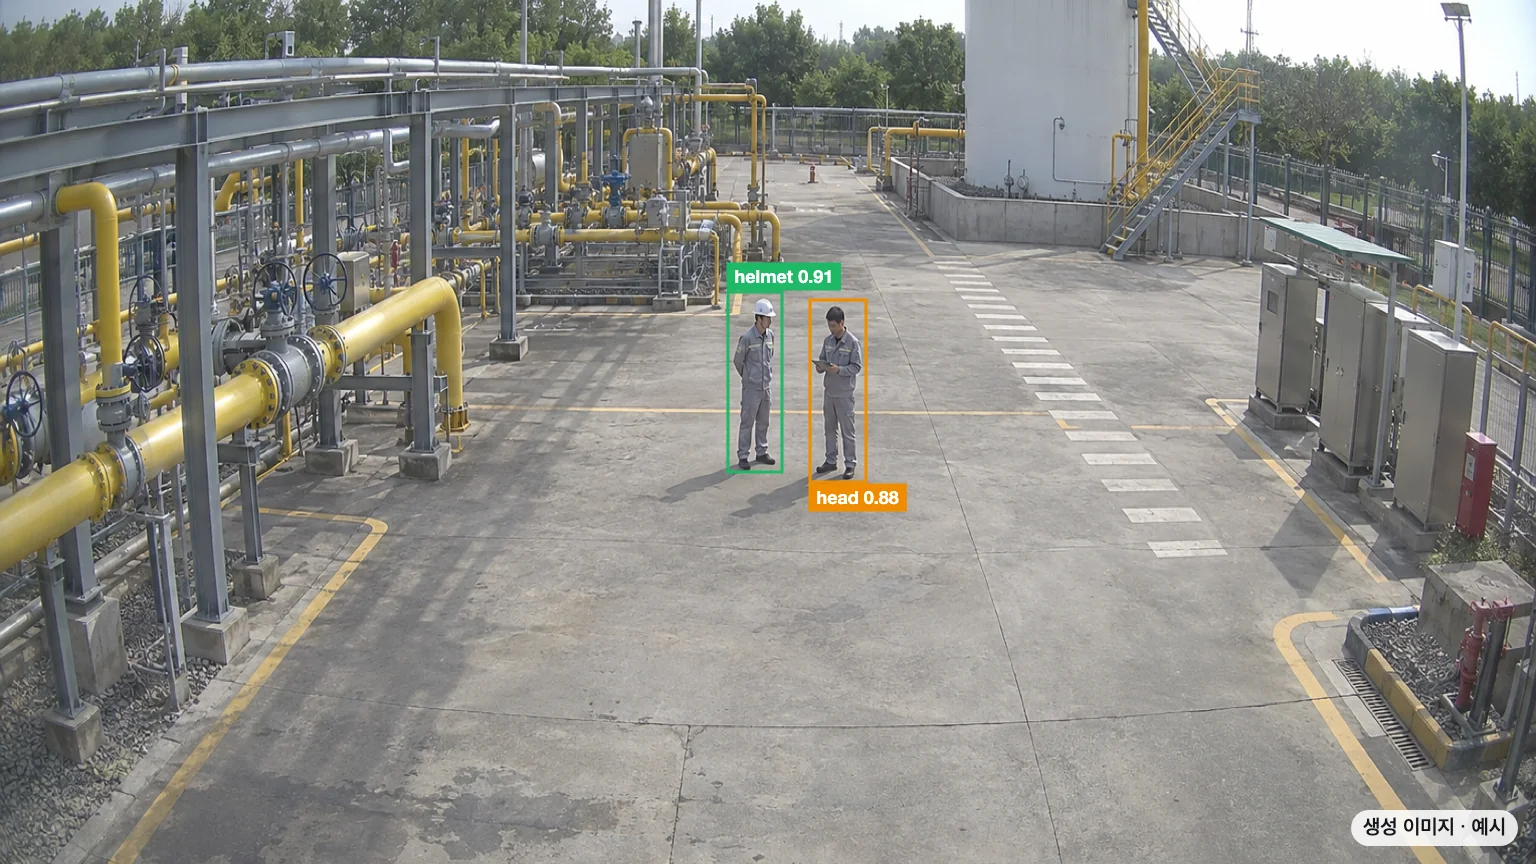
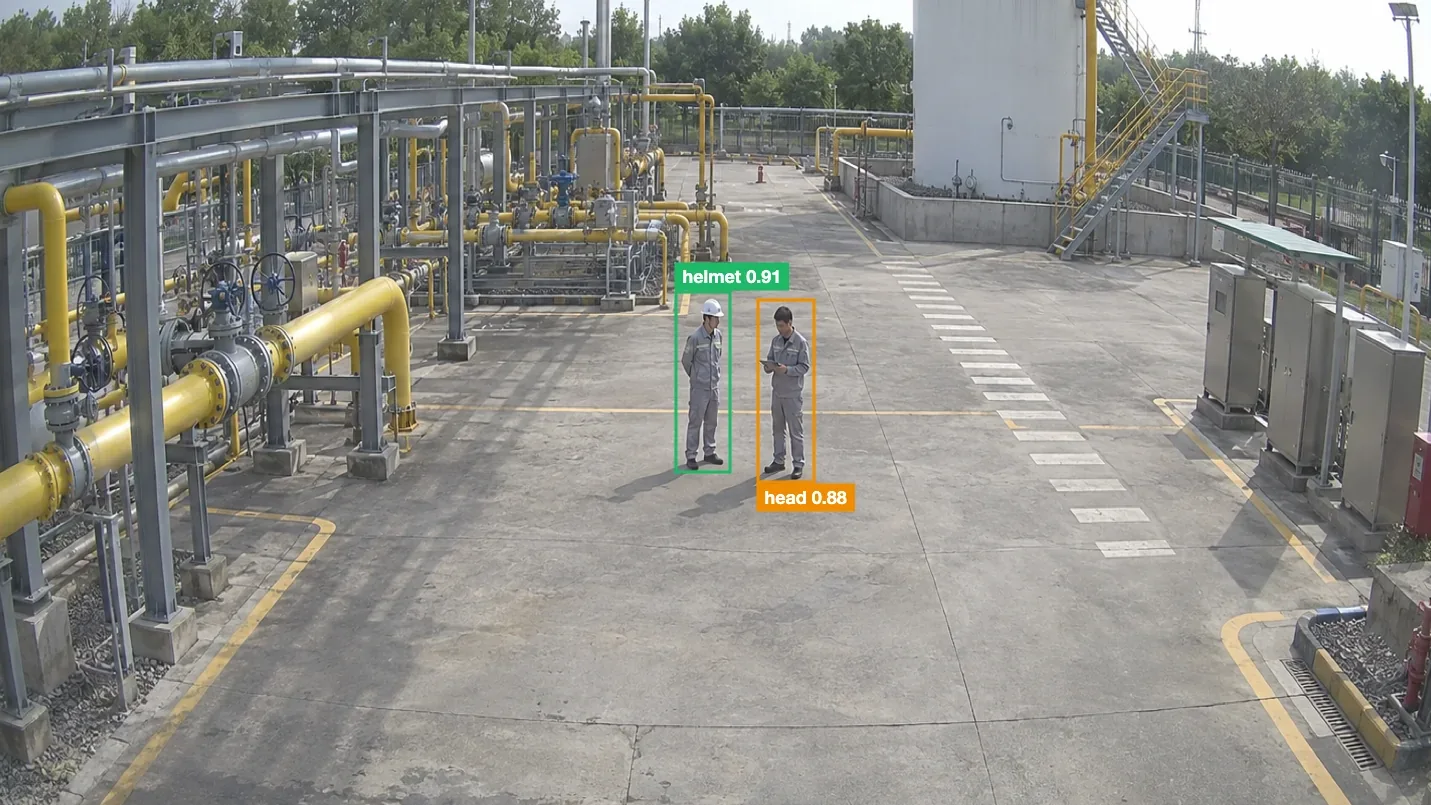
자료 그림: 「생성 이미지」 표시를 모두 빼고 설명을 한 줄로
그림 아홉 장 귀퉁이에 박혀 있던 「생성 이미지 · 예시」를 지웠다. 이번에 만든 세 장(아파트·주차폴·사선)은 덧그림 스크립트로 딱지 없이 다시 그렸고, 나머지 다섯 장은 딱지 자리만 Codex 원본 픽셀로 되살렸다. 원본이 다른 판인 안전모 그림은 아래 띠를 잘라 1431×805(16:9)로 맞췄다.
설명 옆 「생성 이미지」 딱지(media.generated)도 모두 끄고, 설명은 점선·색 풀이 없이 어떤 그림인지 한 줄로 줄였다.

diff --git a/work/parking-ai/index.html b/work/parking-ai/index.html
@@ -100,10 +100,10 @@
     <section class="sec" aria-labelledby="h-media">
       <h2 id="h-media">자료</h2>
       <ul class="shots shots--wide shots--work">
-        <li><img src="/assets/img/work/parking-ai/parking-occupancy.webp" width="1600" height="900" alt="미니어처 디오라마로 만든 빽빽한 야외 주차장을 높이 단 CCTV 광각 렌즈로 내려다본 그림. 주차면을 채운 차들 사이로 통로에 승합차·SUV·트럭이 서 있어 차들이 서로 겹치고 가린다. 차마다 바닥에 닿는 하단면이 노란 사각형으로 그려져 있고, 보이는 변은 실선, 차체나 다른 차에 가린 변은 점선이다. 앞줄 주차면은 차가 선 칸이 빨강, 빈 칸 하나가 초록이며, 빈 칸 일부는 통로의 SUV에 가려 있다. 실제 장소가 아니라 만든 이미지다." loading="lazy"><p class="shots__cap">야외 주차장 CCTV 시점, 차량별 하단면(가려진 변은 점선)과 주차면 <span class="nobr">점유(빨강)·빈</span> 칸(초록)<span class="shots__note">생성 이미지</span></p></li>
-<li><img src="/assets/img/work/parking-ai/parking-apart.webp" width="1600" height="900" alt="미니어처 디오라마로 만든 아파트 지하주차장을 천장에 단 어안 CCTV로 본 그림. 화면 가장자리가 둥글게 휘고, 넓은 통로 건너편 줄에 앞면이 보이게 후진 주차한 차들이 기둥 사이로 빽빽하게 서 있다. 차마다 바닥에 닿는 하단면이 노란 사각형으로 그려져 있고, 보이는 앞변은 실선, 차체나 기둥에 가린 변은 점선이다. 통로를 지나는 파란 차가 뒤에 선 두 대를 가려 그 두 대의 하단면은 모두 점선이다. 찬 칸 앞 바닥은 빨강, 가운데 빈 칸 하나는 초록이다. 실제 장소가 아니라 만든 이미지다." loading="lazy"><p class="shots__cap">아파트 지하주차장 어안 CCTV 시점, 통로를 지나는 차와 기둥에 가린 하단면은 점선<span class="shots__note">생성 이미지</span></p></li>
-<li><img src="/assets/img/work/parking-ai/parking-pole.webp" width="1600" height="900" alt="미니어처 디오라마로 만든 상가 거리의 길가 평행주차 칸을 비스듬히 내려다본 그림. 보도 연석 위에 흰 사각 함체의 주차폴이 서 있고, 앞면에 작은 화면·초록 버튼·자홍 상태등·초록 LED 판이, 양옆에 카메라 함이 달려 있다. 폴 바로 옆 칸에 빨간 승용차가 연석과 나란히 서 있고, 차 바닥에 닿는 하단면이 노란 사각형으로 그려져 있다. 보이는 앞변과 도로 쪽 변은 실선, 가린 뒷변과 연석 쪽 변은 점선이다. 차가 선 칸은 빨강, 그 옆 빈 칸은 초록이다. 실제 장소가 아니라 만든 이미지다." loading="lazy"><p class="shots__cap">길가 주차폴 시점, 폴 옆에 평행주차한 차량 하단면과 찬 <span class="nobr">칸(빨강)·옆</span> 빈 칸(초록)<span class="shots__note">생성 이미지</span></p></li>
-<li><img src="/assets/img/work/parking-ai/parking-diagonal.webp" width="1600" height="900" alt="미니어처 디오라마로 만든 상가 거리의 사선 주차 칸 여섯 개를 비스듬히 내려다본 그림. 칸마다 앞쪽 보도 가장자리에 흰 사각 함체의 주차폴이 하나씩 서 있고, 차들은 폴을 향해 앞머리부터 비스듬히 들어가 있다. 차마다 바닥에 닿는 하단면이 노란 사각형으로 그려져 있고, 보이는 뒷변과 오른쪽 변은 실선, 차체에 가린 앞변과 왼쪽 변은 점선이다. 차가 선 다섯 칸은 빨강, 가운데 빈 칸 하나는 초록이다. 실제 장소가 아니라 만든 이미지다." loading="lazy"><p class="shots__cap">사선 주차장 주차폴 배치안, 칸마다 차량 앞쪽에 폴 하나, 찬 <span class="nobr">칸(빨강)·빈</span> 칸(초록)<span class="shots__note">생성 이미지</span></p></li>
+        <li><img src="/assets/img/work/parking-ai/parking-occupancy.webp" width="1600" height="900" alt="미니어처 디오라마로 만든 빽빽한 야외 주차장을 높이 단 CCTV 광각 렌즈로 내려다본 그림. 주차면을 채운 차들 사이로 통로에 승합차·SUV·트럭이 서 있어 차들이 서로 겹치고 가린다. 차마다 바닥에 닿는 하단면이 노란 사각형으로 그려져 있고, 보이는 변은 실선, 차체나 다른 차에 가린 변은 점선이다. 앞줄 주차면은 차가 선 칸이 빨강, 빈 칸 하나가 초록이며, 빈 칸 일부는 통로의 SUV에 가려 있다. 실제 장소가 아니라 만든 이미지다." loading="lazy"><p class="shots__cap">야외 주차장 CCTV 시점</p></li>
+<li><img src="/assets/img/work/parking-ai/parking-apart.webp" width="1600" height="900" alt="미니어처 디오라마로 만든 아파트 지하주차장을 천장에 단 어안 CCTV로 본 그림. 화면 가장자리가 둥글게 휘고, 넓은 통로 건너편 줄에 앞면이 보이게 후진 주차한 차들이 기둥 사이로 빽빽하게 서 있다. 차마다 바닥에 닿는 하단면이 노란 사각형으로 그려져 있고, 보이는 앞변은 실선, 차체나 기둥에 가린 변은 점선이다. 통로를 지나는 파란 차가 뒤에 선 두 대를 가려 그 두 대의 하단면은 모두 점선이다. 찬 칸 앞 바닥은 빨강, 가운데 빈 칸 하나는 초록이다. 실제 장소가 아니라 만든 이미지다." loading="lazy"><p class="shots__cap">아파트 지하주차장 어안 CCTV 시점</p></li>
+<li><img src="/assets/img/work/parking-ai/parking-pole.webp" width="1600" height="900" alt="미니어처 디오라마로 만든 상가 거리의 길가 평행주차 칸을 비스듬히 내려다본 그림. 보도 연석 위에 흰 사각 함체의 주차폴이 서 있고, 앞면에 작은 화면·초록 버튼·자홍 상태등·초록 LED 판이, 양옆에 카메라 함이 달려 있다. 폴 바로 옆 칸에 빨간 승용차가 연석과 나란히 서 있고, 차 바닥에 닿는 하단면이 노란 사각형으로 그려져 있다. 보이는 앞변과 도로 쪽 변은 실선, 가린 뒷변과 연석 쪽 변은 점선이다. 차가 선 칸은 빨강, 그 옆 빈 칸은 초록이다. 실제 장소가 아니라 만든 이미지다." loading="lazy"><p class="shots__cap">길가 평행주차 칸의 주차폴 시점</p></li>
+<li><img src="/assets/img/work/parking-ai/parking-diagonal.webp" width="1600" height="900" alt="미니어처 디오라마로 만든 상가 거리의 사선 주차 칸 여섯 개를 비스듬히 내려다본 그림. 칸마다 앞쪽 보도 가장자리에 흰 사각 함체의 주차폴이 하나씩 서 있고, 차들은 폴을 향해 앞머리부터 비스듬히 들어가 있다. 차마다 바닥에 닿는 하단면이 노란 사각형으로 그려져 있고, 보이는 뒷변과 오른쪽 변은 실선, 차체에 가린 앞변과 왼쪽 변은 점선이다. 차가 선 다섯 칸은 빨강, 가운데 빈 칸 하나는 초록이다. 실제 장소가 아니라 만든 이미지다." loading="lazy"><p class="shots__cap">사선 주차장 주차폴 배치안</p></li>
       </ul>
     </section>
     <section class="sec" aria-labelledby="h-others">

diff --git a/work/labeling-tool/index.html b/work/labeling-tool/index.html
@@ -93,8 +93,8 @@
     <section class="sec" aria-labelledby="h-media">
       <h2 id="h-media">자료</h2>
       <ul class="shots shots--wide shots--work">
-        <li><img src="/assets/img/work/labeling-tool/labeling-calib.webp" width="1600" height="900" alt="미니어처 디오라마 주차장을 높이 단 CCTV 광각 렌즈로 본 그림 위에 보정한 카메라로 그린 옅은 바닥 격자, 주차면 앞뒤를 따라 그은 가로선(초록), 주차면 사이 세로선(주황), 2.5 m 축척이 있고, 세로선을 렌즈 휨대로 이어 그린 분홍 점선 셋이 위쪽 나무 줄 근처의 소실점 한 곳으로 모인다. 왼쪽 아래에 보정한 카메라 값(초점거리·카메라 높이·좌우 기울기)이 있다. 실제 장소가 아니라 만든 이미지다." loading="lazy"><p class="shots__cap">바닥 주차선과 소실점 기반 <span class="nobr">초점거리·카메라</span> <span class="nobr">높이·기울기</span> 보정<span class="shots__note">생성 이미지</span></p></li>
-<li><img src="/assets/img/work/labeling-tool/labeling-ground.webp" width="1600" height="900" alt="같은 미니어처 주차장 바닥에 보정한 카메라로 2.5 m 간격 격자를 올린 그림. 격자가 광각 렌즈를 따라 휘며 바닥에 붙어 보이고, 차마다 바닥에 닿는 하단면 라벨이 초록 사각형으로 그려져 있다. 실제 장소가 아니라 만든 이미지다." loading="lazy"><p class="shots__cap">보정값으로 바닥에 올린 2.5 m 격자와 차량 하단면 라벨(초록)<span class="shots__note">생성 이미지</span></p></li>
+        <li><img src="/assets/img/work/labeling-tool/labeling-calib.webp" width="1600" height="900" alt="미니어처 디오라마 주차장을 높이 단 CCTV 광각 렌즈로 본 그림 위에 보정한 카메라로 그린 옅은 바닥 격자, 주차면 앞뒤를 따라 그은 가로선(초록), 주차면 사이 세로선(주황), 2.5 m 축척이 있고, 세로선을 렌즈 휨대로 이어 그린 분홍 점선 셋이 위쪽 나무 줄 근처의 소실점 한 곳으로 모인다. 왼쪽 아래에 보정한 카메라 값(초점거리·카메라 높이·좌우 기울기)이 있다. 실제 장소가 아니라 만든 이미지다." loading="lazy"><p class="shots__cap">주차선과 소실점을 이용한 카메라 보정 화면</p></li>
+<li><img src="/assets/img/work/labeling-tool/labeling-ground.webp" width="1600" height="900" alt="같은 미니어처 주차장 바닥에 보정한 카메라로 2.5 m 간격 격자를 올린 그림. 격자가 광각 렌즈를 따라 휘며 바닥에 붙어 보이고, 차마다 바닥에 닿는 하단면 라벨이 초록 사각형으로 그려져 있다. 실제 장소가 아니라 만든 이미지다." loading="lazy"><p class="shots__cap">보정한 바닥 위 2.5 m 격자와 하단면 라벨</p></li>
       </ul>
     </section>
     <section class="sec" aria-labelledby="h-others">

diff --git a/work/safety-vision/index.html b/work/safety-vision/index.html
@@ -95,8 +95,8 @@
     <section class="sec" aria-labelledby="h-media">
       <h2 id="h-media">자료</h2>
       <ul class="shots shots--wide shots--work">
-        <li><img src="/assets/img/work/safety-vision/safety-helmet.webp" width="1536" height="864" alt="산업 시설 마당을 높은 곳에서 내려다본 CCTV 화면 예시. 안전모를 쓴 작업자는 초록 helmet 상자, 쓰지 않은 작업자는 주황 head 상자로 표시된다. 실제 현장이 아니라 만든 이미지다." loading="lazy"><p class="shots__cap">안전모 <span class="nobr">착용(helmet)·미착용(head)</span> 감지<span class="shots__note">생성 이미지</span></p></li>
-<li><img src="/assets/img/work/safety-vision/safety-intrude.webp" width="1536" height="864" alt="저장 탱크 둘레의 출입 금지 구역이 청록 ROI로 칠해진 CCTV 화면 예시. 구역 안의 작업자는 빨간 trespass 상자, 바깥을 걷는 작업자는 person 상자로 표시된다. 실제 현장이 아니라 만든 이미지다." loading="lazy"><p class="shots__cap">출입 금지 구역(ROI) 침입 감지<span class="shots__note">생성 이미지</span></p></li>
+        <li><img src="/assets/img/work/safety-vision/safety-helmet.webp" width="1431" height="805" alt="산업 시설 마당을 높은 곳에서 내려다본 CCTV 화면 예시. 안전모를 쓴 작업자는 초록 helmet 상자, 쓰지 않은 작업자는 주황 head 상자로 표시된다. 실제 현장이 아니라 만든 이미지다." loading="lazy"><p class="shots__cap">안전모 <span class="nobr">착용·미착용</span> 감지</p></li>
+<li><img src="/assets/img/work/safety-vision/safety-intrude.webp" width="1536" height="864" alt="저장 탱크 둘레의 출입 금지 구역이 청록 ROI로 칠해진 CCTV 화면 예시. 구역 안의 작업자는 빨간 trespass 상자, 바깥을 걷는 작업자는 person 상자로 표시된다. 실제 현장이 아니라 만든 이미지다." loading="lazy"><p class="shots__cap">출입 금지 구역 침입 감지</p></li>
       </ul>
     </section>
     <section class="sec" aria-labelledby="h-others">

diff --git a/work/risk-review/index.html b/work/risk-review/index.html
@@ -106,7 +106,7 @@
     <section class="sec" aria-labelledby="h-media">
       <h2 id="h-media">자료</h2>
       <ul class="shots shots--wide shots--work">
-        <li><img src="/assets/img/work/risk-review/risk-review.webp" width="1440" height="960" alt="현장 사무실 책상의 노트북에 위험성평가표가 표처럼 열려 있고, 몇 줄이 빨강·노랑으로 표시되어 있으며 오른쪽에 검토 의견 칸이 있다. 옆에 안전모와 점검표가 놓여 있다. 실제 화면이 아니라 만든 이미지다." loading="lazy"><p class="shots__cap">위험성평가표를 검토하는 장면<span class="shots__note">생성 이미지</span></p></li>
+        <li><img src="/assets/img/work/risk-review/risk-review.webp" width="1440" height="960" alt="현장 사무실 책상의 노트북에 위험성평가표가 표처럼 열려 있고, 몇 줄이 빨강·노랑으로 표시되어 있으며 오른쪽에 검토 의견 칸이 있다. 옆에 안전모와 점검표가 놓여 있다. 실제 화면이 아니라 만든 이미지다." loading="lazy"><p class="shots__cap">위험성평가표 검토 장면</p></li>
       </ul>
     </section>
     <section class="sec" aria-labelledby="h-others">

diff --git a/work/senior-zone/index.html b/work/senior-zone/index.html
@@ -95,7 +95,7 @@
     <section class="sec" aria-labelledby="h-media">
       <h2 id="h-media">자료</h2>
       <ul class="shots shots--wide shots--work">
-        <li><img src="/assets/img/work/senior-zone/senior-map.webp" width="675" height="616" alt="도시 중심부 도로망을 노인 교통사고 위험도에 따라 초록·파랑·빨강으로 칠한 분석 지도. 강을 따라 난 시가지 도로가 보이고, 바탕 지도의 지명은 흐리게 가렸다." loading="lazy"><p class="shots__cap">도로별 노인 교통사고 위험 분석 결과(바탕 지도의 지명은 가림)</p></li>
+        <li><img src="/assets/img/work/senior-zone/senior-map.webp" width="675" height="616" alt="도시 중심부 도로망을 노인 교통사고 위험도에 따라 초록·파랑·빨강으로 칠한 분석 지도. 강을 따라 난 시가지 도로가 보이고, 바탕 지도의 지명은 흐리게 가렸다." loading="lazy"><p class="shots__cap">도로별 노인 교통사고 위험 분석 지도</p></li>
       </ul>
     </section>
     <section class="sec" aria-labelledby="h-others">

diff --git a/tool/build.py b/tool/build.py
@@ -1343,7 +1343,8 @@ footer {{ margin-top: 5mm; padding-top: 2mm; border-top: 1px solid var(--rule); 
 
 # ── 회사 프로젝트: 진열대 작은 봉지의 뒷면. 앱 페이지와 같은 틀에 개요·맡은 일·쓴 기술·자료(이미지·영상) ──
 # 자료는 about.json 의 work[].media 에 {"type": "image"|"video", "src", "poster", "w", "h", "alt", "caption", "generated"} 로 적으면 나온다.
-# caption 은 그림 아래 짧은 설명이고, generated 가 참이면 「생성 이미지」 딱지가 붙는다(실제 자료가 없어 만든 그림).
+# caption 은 그림 아래 어떤 그림인지 담백한 한 줄이다(점선·색 풀이는 적지 않는다). generated 가 참이면 「생성 이미지」 딱지가 붙지만,
+# 2026-10-22 사용자 결정으로 지금은 어느 그림에도 쓰지 않는다(그림 귀퉁이 딱지도 지웠다).
 
 if ABOUT and ABOUT.get("work"):
     minis = {it["href"]: it for it in shelf_items() if isinstance(it, dict)}
